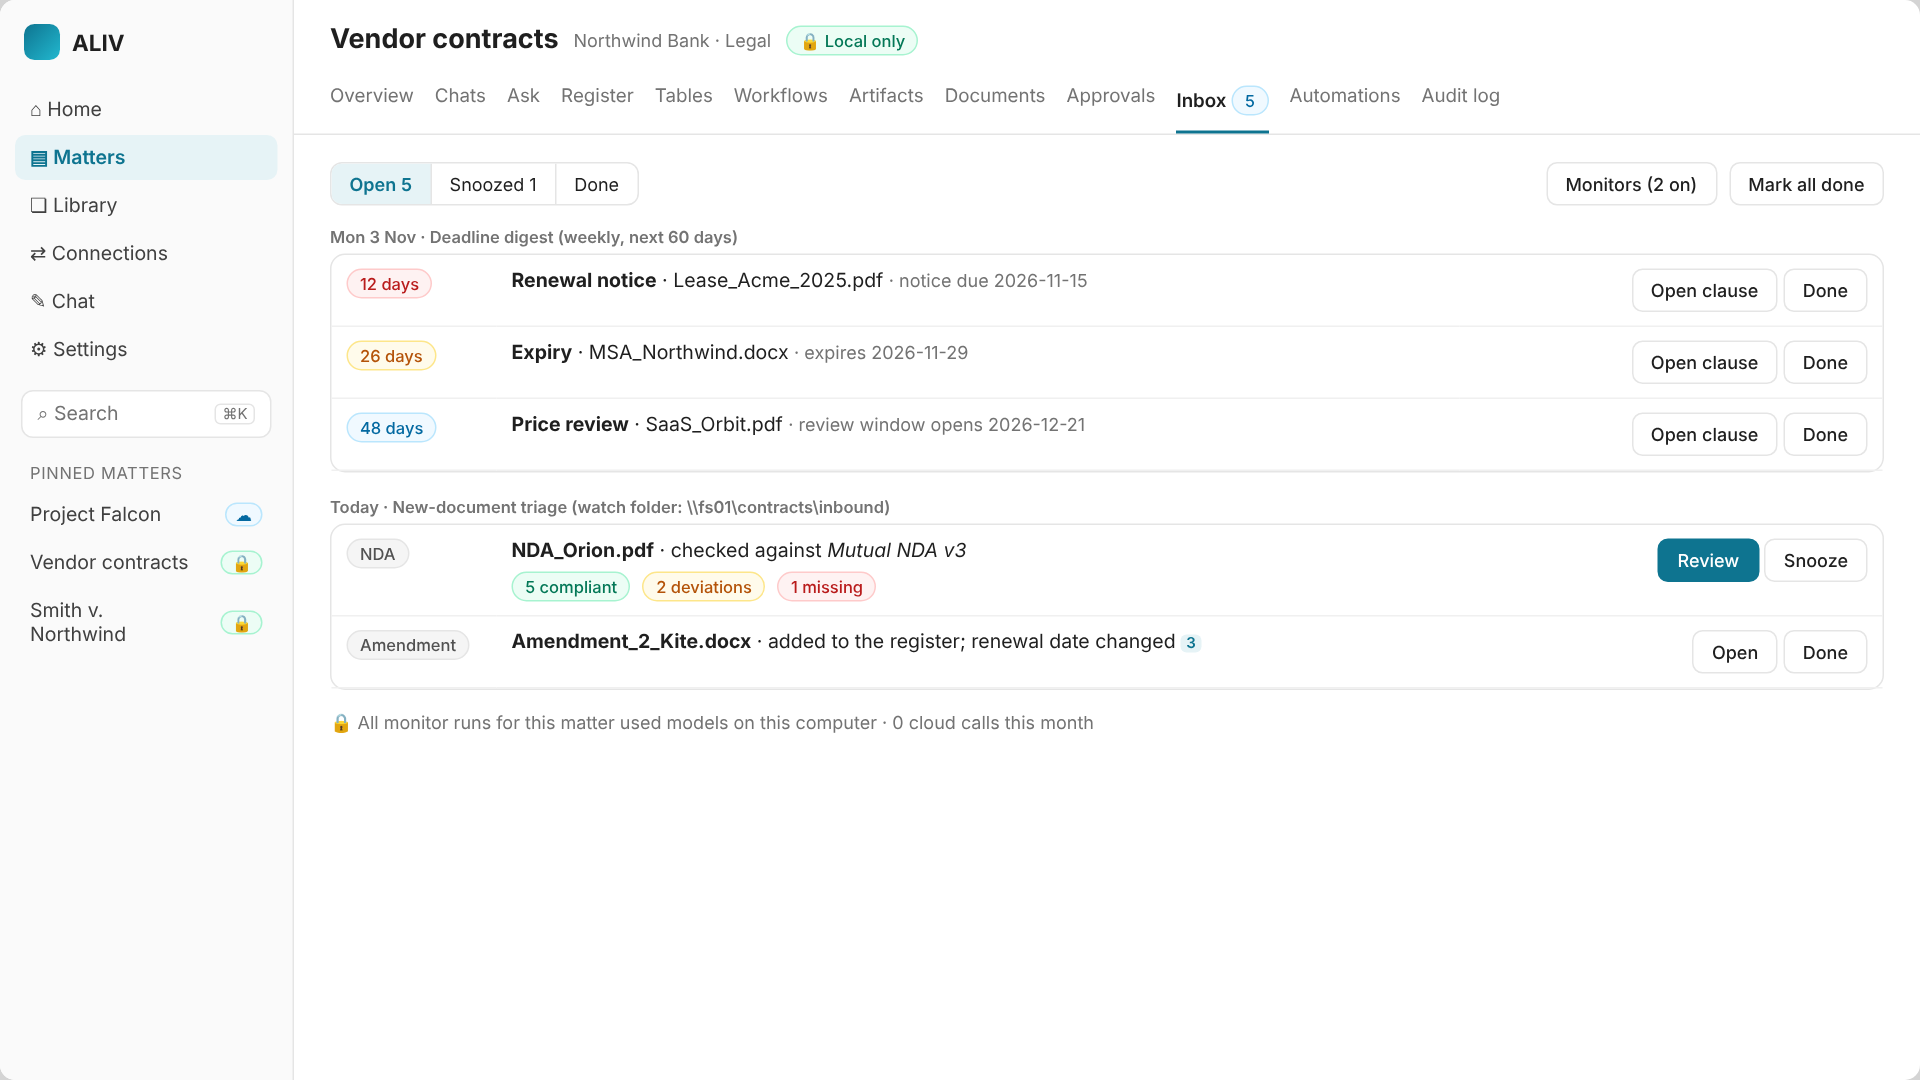
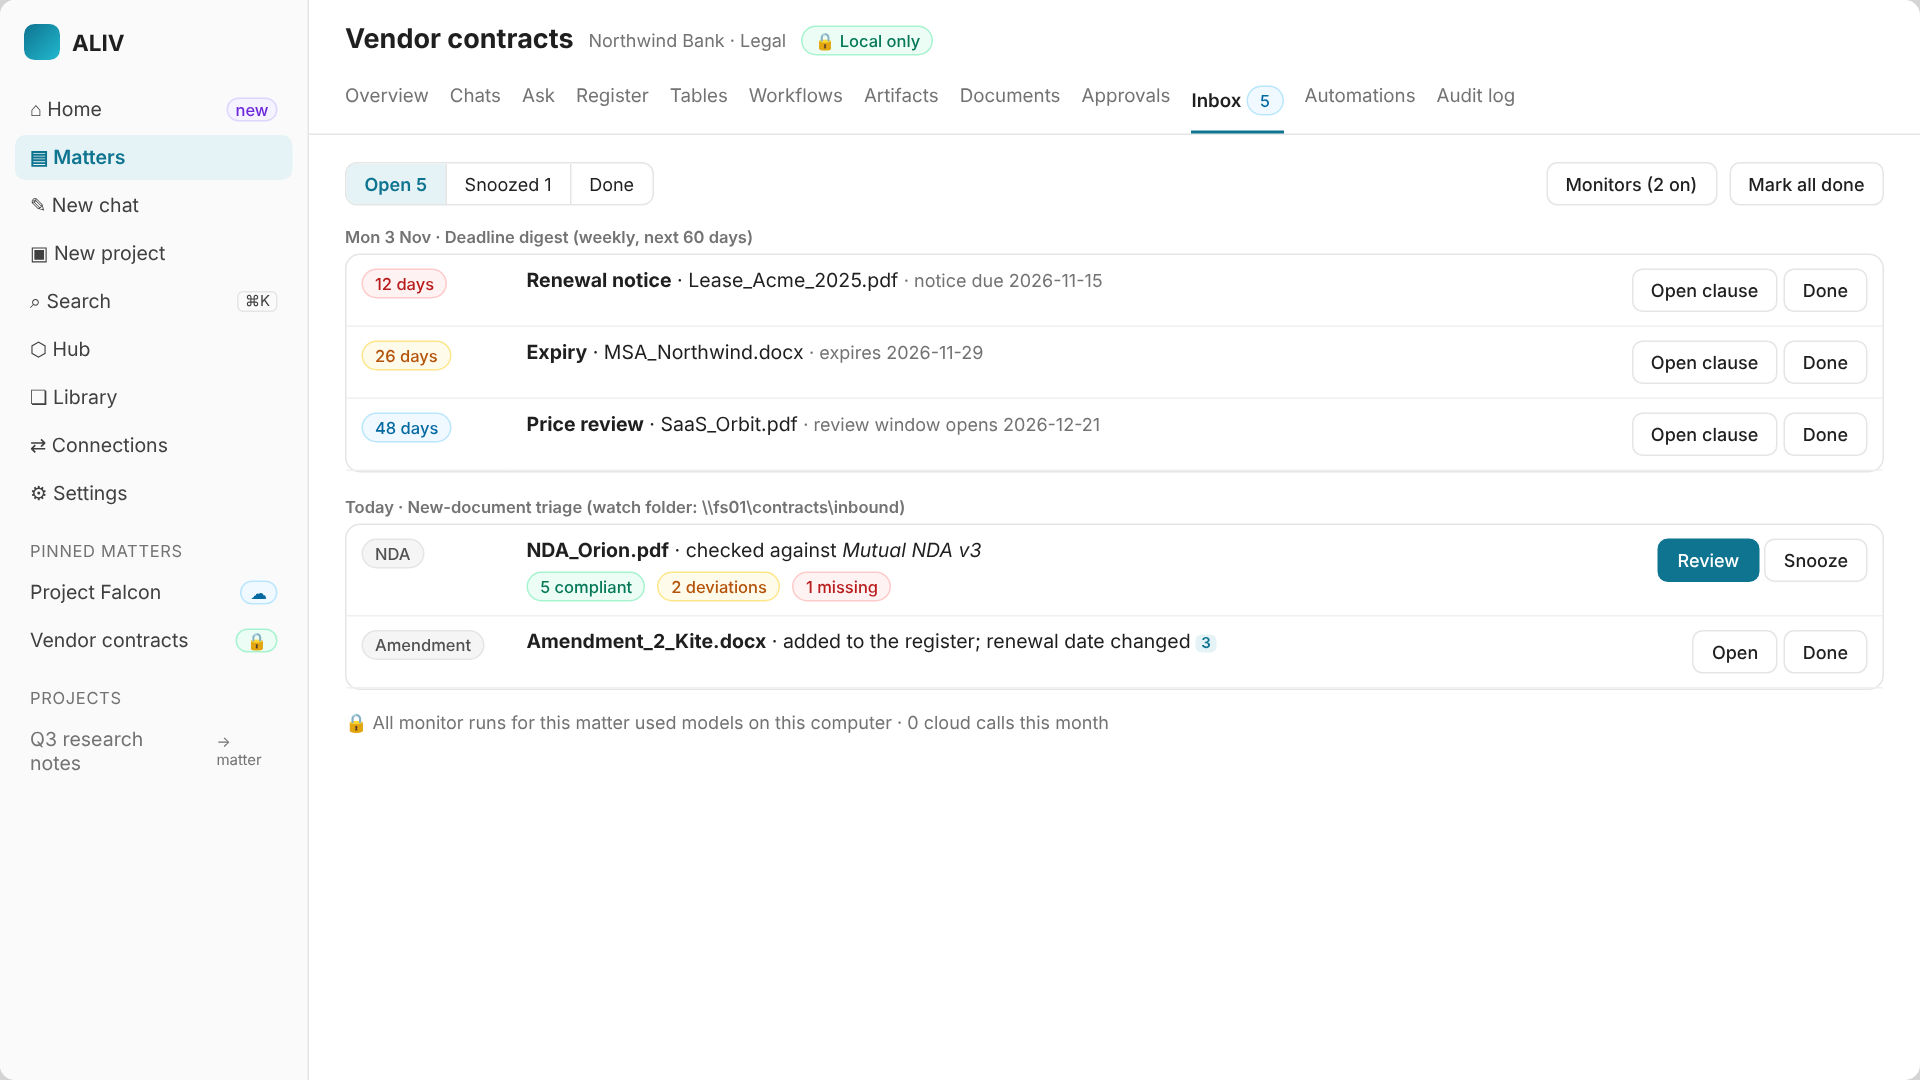
Align navigation with the app: keep existing Search, Hub, New chat and Projects; extend search, add Hub › Skills, convert projects to matters; re-render mockup sidebars
Claude-Session: https://claude.ai/code/session_01JwVSXGESoaiGwJRaX1knFA

diff --git a/docs/05-design/ALIV_UI-Spec.md b/docs/05-design/ALIV_UI-Spec.md
@@ -8,9 +8,9 @@
 ## 1. Navigation
 
 ```
-App shell (left sidebar from the base app)
+App shell (left sidebar; ✅ = already in the app)
 ├─ Home                 R1–R3  (one view across all matters; see W-0)
-├─ Matters                          ← ALIV home today
+├─ Matters               ✅      ← ALIV home today
 │   └─ Matter
 │       ├─ Overview      ✅
 │       ├─ Chats         R1  (matter chats, under the matter's policy)
@@ -24,10 +24,14 @@ App shell (left sidebar from the base app)
 │       ├─ Approvals     ✅
 │       ├─ Inbox         R3  (monitor results)
 │       └─ Audit log     ✅
-├─ Library               R1–R3: Skills · Workflows · Playbooks · Clauses · Agents · Knowledge bases
-├─ Global search (⌘K)    R2: matters, documents, clauses, cells, artifacts, runs, chats
-├─ Connections           R1: MCP servers · R3: document connectors
-├─ Chat, Models, Settings (base app)
+├─ New chat + Chats      ✅  free chat; cannot read matters (chats about a matter live in the matter)
+├─ New project + Projects ✅ kept until converted: each project offers "Convert to matter" (WS-05)
+├─ Search (⌘K)           ✅  today: chat threads (SearchDialog) · R2: extended to matters, documents,
+│                             clauses, cells, artifacts and runs (SRCH-09)
+├─ Hub                   ✅  Models (download, ranking) · R1: Skills tab (import from the skill hub / git plugins)
+├─ Library               R2–R3: Workflows · Playbooks · Clauses · Agents · Knowledge bases
+├─ Connections           R1: MCP servers (moved from Settings) · R3: document connectors
+├─ Settings              ✅  + Admin pages (R1)
 └─ Vault health (dialog from Matters) ✅
 ```
 
@@ -163,11 +167,11 @@ Entries: time, kind, summary, expandable detail. Verify integrity → success or
 | **Skill review dialog** (R1) | Full SKILL.md, bundled files and scripts, trust level, source; Enable is disabled for third-party skills on Local only matters | SKL-03/04 |
 | **Approval card for tools and scripts** (R1) | Tool or script name, server or skill, exactly what will be sent or changed; Approve / Reject | MCP-04, SKL-04 |
 | **Artifacts tab** (R2) · [mockup](../assets/mockups/artifacts.png) | Grid or list: type icon, title, version, author, route, skills; open shows the artifact with citations, version history and diff; Export; Save to output folder (proposal) | ART-01–05 |
-| **Global search** (R2) | ⌘K; results grouped by type and labelled by matter and tier (this matter / firm knowledge / web) | SRCH-09/11 |
+| **Search** (R2) | Extends the existing ⌘K `SearchDialog` (today: chat threads) with matters, documents, clauses, cells, artifacts and runs; results grouped by type and labelled by matter and tier (this matter / firm knowledge / web) | SRCH-09/11 |
 | **Connections › Connectors** (R3) | Add iManage, NetDocuments, SharePoint, Drive, Box, Outlook/Gmail; pick workspaces or folders; link to a matter; sync status, last sync, errors | CON-01–06 |
 | **Connections › MCP servers** (R1) | Servers with trust level, tools list, firm allow/block status, test connection | MCP-01/07 |
 | **Automations tab** (R3) · [mockup](../assets/mockups/automations.png) | List of automations (trigger, action, last run, next run, on/off); editor: trigger, action (workflow, agent or skill), matter, schedule; run history with retry and pause | AUTO-01–07 |
-| **Library › Skills** (R1–R3) | My, firm and built-in skills; Import (hub or git plugin); editor; publish with change note (R3); Skill Builder from a chat (R3) | SKL-06–08 |
+| **Hub › Skills** (R1–R3) | Next to Hub › Models: my, firm and built-in skills; Import (skill hub or git plugin, both already in the code); editor; publish with change note (R3); Skill Builder from a chat (R3) | SKL-06–08 |
 
 ## 5b. Admin interface
 

diff --git a/docs/04-specs/ALIV_Feature-Spec.md b/docs/04-specs/ALIV_Feature-Spec.md
@@ -113,7 +113,7 @@ Nothing calls a provider directly.
 | SRCH-06 | Filters: document type, date range, party, folder | P1 | R2 |
 | SRCH-07 | Search across several selected matters (explicit user choice) | P2 | R3 |
 | SRCH-08 | ANN index when a matter exceeds ~200k passages | P2 | R4 |
-| SRCH-09 | **Global search** bar: matters, documents, clauses, tables, artifacts, runs and chats, scoped to what the user may see | P1 | R2 |
+| SRCH-09 | **Global search:** extend the existing ⌘K search dialog (today it searches chat threads) to matters, documents, clauses, tables, artifacts and runs, scoped to what the user may see | P1 | R2 |
 | SRCH-10 | **Web search** (existing `tauri-plugin-websearch`) runs only through the gateway: blocked on Local only matters; on Hybrid, the query is shown, redacted and audited before it is sent | P0 | R1 |
 | SRCH-11 | Search tiers are always labelled: *this matter* (local), *firm knowledge* (FS-18), *web / research* (FS-22) | P1 | R2 |
 | SRCH-12 | Web results used in an answer are cited with their URL and fetch date, and never written into the matter's index unless the user saves them | P1 | R2 |
@@ -485,7 +485,7 @@ FS-17 Monitors become built-in automation templates.
 | WS-02 | **Matter instructions:** client, our side, objectives, house style; applied to Ask, tables, workflows and agents in the matter | P0 | R1 |
 | WS-03 | **Linked source folders:** the matter records its folders (and connector sources, FS-23); re-scan on demand; watch in R3 | P0 | R1 (record, re-scan) · R3 (watch) |
 | WS-04 | **Output folder:** one folder per matter where approved artifacts and file actions are written; never overwrites | P1 | R2 |
-| WS-05 | Migration: existing chat projects can be converted into matters (threads, instructions and assistant kept) | P1 | R1 |
+| WS-05 | Migration: existing chat projects can be converted into matters (threads, instructions and assistant kept). The Projects entry stays in the sidebar, with "Convert to matter", until a user has no projects left | P1 | R1 |
 | WS-06 | Matter-level choice of enabled skills (FS-28) and MCP servers (FS-24) | P0 | R1 |
 | WS-07 | Pin matters; recent activity per matter on Home | P2 | R1 |
 | WS-08 | Matter export: documents list, register, artifacts, chats and audit as an open archive | P1 | R2 |
@@ -503,6 +503,7 @@ FS-17 Monitors become built-in automation templates.
 | SKL-03 | **Review before enabling:** show the full SKILL.md and list bundled scripts and files | P0 | R1 |
 | SKL-04 | Skill scripts never run without approval, and run sandboxed (no network, matter folder read-only) | P0 | R1 |
 | SKL-05 | Every run records the skills used (name and version) in the audit entry and on the artifact | P0 | R1 |
+| SKL-10 | Skills are browsed and imported in the existing **Hub** (a Skills tab next to Models) | P1 | R1 |
 | SKL-06 | Starter packs: NDA triage, DD checklist, lease abstract, chronology method, client-memo style, invoice checks, covenant reading; US / UK / EU variants | P1 | R2 |
 | SKL-07 | Firm skill library: publish, version, change notes, deprecate; lawyers can propose skills | P1 | R3 |
 | SKL-08 | **Skill Builder:** turn a chat or a corrected output into a draft skill for review | P2 | R3 |

diff --git a/docs/05-design/ALIV_Wireframes.md b/docs/05-design/ALIV_Wireframes.md
@@ -7,7 +7,7 @@ Low-fidelity layouts for the [UI Spec](ALIV_UI-Spec.md). ✅ marks shipped scree
 
 ## High-fidelity mockups
 
-Rendered with the app's design tokens ([Design System](ALIV_Design-System.md)). These are **mockups of planned screens**, not screenshots; the data is fictional. All screens use the full navigation (Home, Matters, Library, Connections, Chat, Settings, ⌘K search) and the full matter tab order.
+Rendered with the app's design tokens ([Design System](ALIV_Design-System.md)). These are **mockups of planned screens**, not screenshots; the data is fictional. All screens use the app's real sidebar (Matters, New chat, New project, Search ⌘K, Hub, Settings, which already exist) plus the new entries (Home, Library, Connections), and the full matter tab order. Projects stay listed with a "→ matter" conversion hint.
 
 | Screen | Release | Image |
 |---|---|---|
